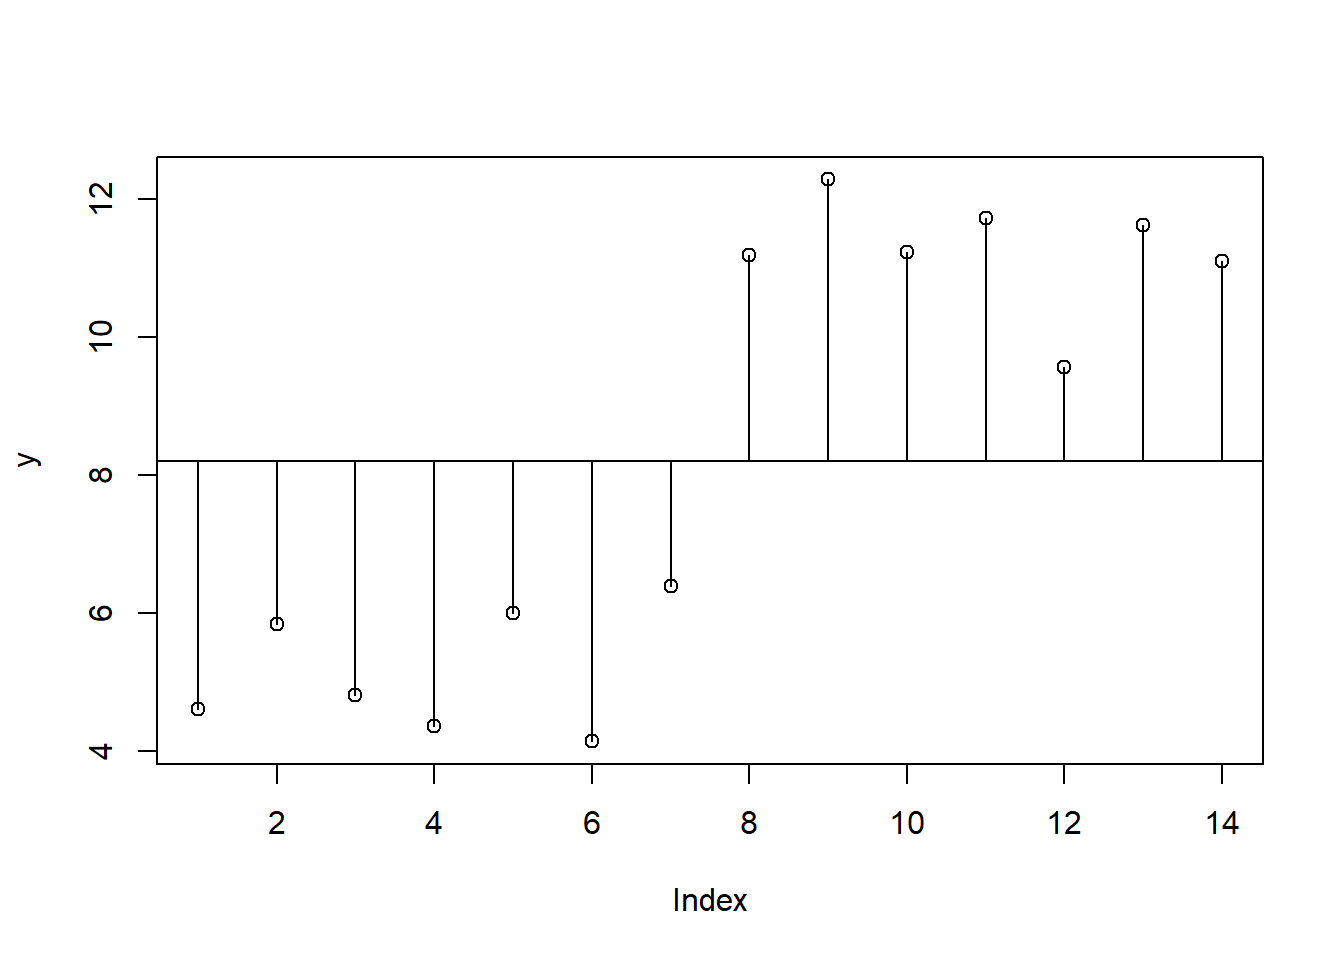
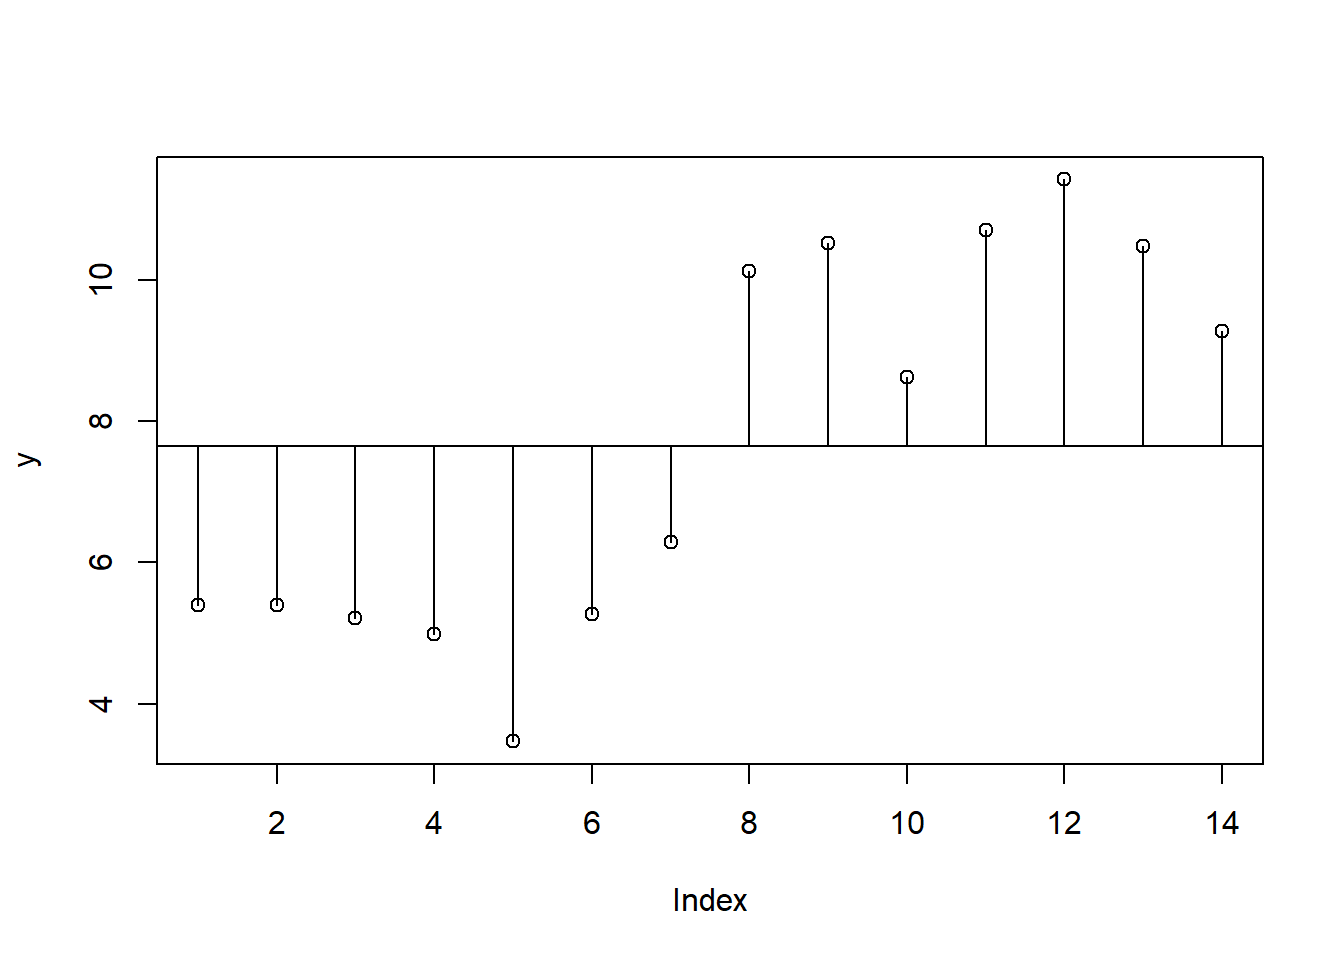
Ajustes clase de prueba de hipótesis

diff --git a/Blog/_site/posts/concepto-y-modelos-experimentar/index.html b/Blog/_site/posts/concepto-y-modelos-experimentar/index.html
@@ -387,8 +387,8 @@ Pr(detectada|Hipótesis) = \frac{Pr(Hipótesis|detectada) Pr(detectado)} {Pr(Hip
 <span id="cb8-7"><a href="#cb8-7" aria-hidden="true" tabindex="-1"></a></span>
 <span id="cb8-8"><a href="#cb8-8" aria-hidden="true" tabindex="-1"></a><span class="co"># Gráfica</span></span>
 <span id="cb8-9"><a href="#cb8-9" aria-hidden="true" tabindex="-1"></a><span class="fu">plot</span>(<span class="at">x =</span> <span class="dv">1</span> <span class="sc">-</span> resultados<span class="sc">$</span>p_error, <span class="at">y =</span> resultados<span class="sc">$</span>p_post,</span>
-<span id="cb8-10"><a href="#cb8-10" aria-hidden="true" tabindex="-1"></a>     <span class="at">type =</span> <span class="st">"b"</span>, <span class="at">xlab =</span> <span class="st">"valor de P"</span>, <span class="at">ylab =</span> <span class="st">"Pr post detección positiva"</span>, <span class="at">cex =</span> <span class="dv">2</span>, </span>
-<span id="cb8-11"><a href="#cb8-11" aria-hidden="true" tabindex="-1"></a>     <span class="at">cex.axis  =</span> <span class="dv">2</span>, <span class="at">cex.lab =</span> <span class="dv">2</span>)</span></code><button title="Copiar al portapapeles" class="code-copy-button"><i class="bi"></i></button></pre></div>
+<span id="cb8-10"><a href="#cb8-10" aria-hidden="true" tabindex="-1"></a>     <span class="at">type =</span> <span class="st">"b"</span>, <span class="at">xlab =</span> <span class="st">"valor de P"</span>, <span class="at">ylab =</span> <span class="st">"Pr post detección positiva"</span>, </span>
+<span id="cb8-11"><a href="#cb8-11" aria-hidden="true" tabindex="-1"></a>     <span class="at">cex =</span> <span class="dv">2</span>, <span class="at">cex.axis  =</span> <span class="dv">1</span>, <span class="at">cex.lab =</span> <span class="dv">2</span>)</span></code><button title="Copiar al portapapeles" class="code-copy-button"><i class="bi"></i></button></pre></div>
 </details>
 <div class="cell-output-display">
 <p><img src="index_files/figure-html/unnamed-chunk-6-1.png" class="img-fluid" width="672"></p>
@@ -412,8 +412,8 @@ Pr(detectada|Hipótesis) = \frac{Pr(Hipótesis|detectada) Pr(detectado)} {Pr(Hip
 <p>La propuesta que seguiremos en el <strong>Módulo 3</strong> se basa en traducir situaciones reales en abstracciones que escribimos como modelos estadísticos. De esta manera buscamos generar expresiones matemáticas que dan cuenta de nuestras concepciones sobre cómo funcionan aspectos concretos de la naturaleza. Es así que nos planteamos generar series de números <em>idealizados por el modelo</em> que podemos comparar con series de números observamos directamente de la naturaleza. Sí estas dos series de números se <em>parecen lo suficiente</em>, nos <em>sentiremos con confianza suficiente</em> como para pensar que nuestro modelo es útil para describir el comportamiento del segmento de la naturaleza que elegimos abstraer.</p>
 <section id="podríamos-usarlo-para-intervenir-en-él" class="level3">
 <h3 class="anchored" data-anchor-id="podríamos-usarlo-para-intervenir-en-él"><span style="color:GoldenRod"><strong>¿Podríamos usarlo para intervenir en él?</strong></span></h3>
-<p>Recordemos que el modelo completo es el que tiene todos los parámetros posibles de acuerdo con el diseño del estudio, usualmente al menos un término por cada grupo experimental (tratamiento). En general el método para llegar a un segundo modelo es introducir restricciones (supuestos que especifican el valor de particulares) sobre los parámetros del primer modelo.</p>
-<p>Las restricciones usualmente son nuestra(s) hipótesis nula(s) y en ese caso las usamos para eliminar algunos parámetros del conjunto usado en el modelo completo. Naturalmente llamamos al modelo resultante simplemente el modelo restringido.</p>
+<p>El modelo que contiene todas las variables explicativas que proponemos tinen que ver con el fenómeno que estamos analizando lo llamaremos <strong>modelo completo</strong>. Tiene todos los parámetros posibles de acuerdo con el diseño del estudio, usualmente al menos un término por cada grupo experimental (tratamiento). En general el método para llegar a un segundo modelo es postular restricciones (supuestos que especifican el valor de particulares) sobre los parámetros del primer modelo.</p>
+<p>Las restricciones usualmente son nuestra(s) hipótesis nula(s) y en ese caso las usamos para eliminar algunos parámetros del conjunto usado en el modelo completo, equivalente a dar por hecho que el parámetro correspondiente es 0. Naturalmente llamaremos al modelo resultante simplemente el <strong>modelo restringido</strong> o <strong>modelo reducido</strong>.</p>
 </section>
 <section id="piensas-que-sería-válido-restringir-un-modelo-con-valores-de-algún-parámetro-con-un-valor-que-no-sea-cero" class="level3">
 <h3 class="anchored" data-anchor-id="piensas-que-sería-válido-restringir-un-modelo-con-valores-de-algún-parámetro-con-un-valor-que-no-sea-cero"><span style="color:GoldenRod"><strong>¿Piensas que sería válido restringir un modelo con valores de algún parámetro con un valor que no sea cero?</strong></span></h3>
@@ -499,11 +499,11 @@ H_0: m_1 = m_2 = m_3 = ... = m_k
 <div class="cell">
 <details>
 <summary>Código</summary>
-<div class="sourceCode cell-code" id="cb16"><pre class="sourceCode r code-with-copy"><code class="sourceCode r"><span id="cb16-1"><a href="#cb16-1" aria-hidden="true" tabindex="-1"></a>dist_med_y <span class="ot">&lt;-</span> <span class="fu">sum</span>(<span class="fu">abs</span>(y <span class="sc">-</span> <span class="fu">mean</span>(y)))</span>
+<div class="sourceCode cell-code" id="cb16"><pre class="sourceCode r code-with-copy"><code class="sourceCode r"><span id="cb16-1"><a href="#cb16-1" aria-hidden="true" tabindex="-1"></a>dist_med_y <span class="ot">&lt;-</span> <span class="fu">sum</span>((y <span class="sc">-</span> <span class="fu">mean</span>(y))<span class="sc">**</span><span class="dv">2</span>)</span>
 <span id="cb16-2"><a href="#cb16-2" aria-hidden="true" tabindex="-1"></a>dist_med_y</span></code><button title="Copiar al portapapeles" class="code-copy-button"><i class="bi"></i></button></pre></div>
 </details>
 <div class="cell-output cell-output-stdout">
-<pre><code>[1] 42.61764</code></pre>
+<pre><code>[1] 97.63709</code></pre>
 </div>
 </div>
 <p>Ahora incorporemos la información del factor <strong><em>f</em></strong>. Para esto hay que calcular los promedios de “y” que corresponden a los niveles de <strong><em>f</em></strong></p>
@@ -515,7 +515,7 @@ H_0: m_1 = m_2 = m_3 = ... = m_k
 </details>
 <div class="cell-output cell-output-stdout">
 <pre><code>        a         b 
- 5.162983 11.251218 </code></pre>
+ 5.145941 10.162875 </code></pre>
 </div>
 </div>
 <p>Grafiquemos esta nueva estructura de datos.</p>
@@ -538,22 +538,18 @@ H_0: m_1 = m_2 = m_3 = ... = m_k
 <div class="cell">
 <details>
 <summary>Código</summary>
-<div class="sourceCode cell-code" id="cb21"><pre class="sourceCode r code-with-copy"><code class="sourceCode r"><span id="cb21-1"><a href="#cb21-1" aria-hidden="true" tabindex="-1"></a>dist_med_s <span class="ot">&lt;-</span> <span class="fu">sum</span>(<span class="at">m1=</span><span class="fu">sum</span>(<span class="fu">abs</span>(y[<span class="dv">1</span><span class="sc">:</span><span class="dv">7</span>] <span class="sc">-</span> means[<span class="dv">1</span>])), <span class="at">m2=</span><span class="fu">sum</span>(<span class="fu">abs</span>(y[<span class="dv">7</span><span class="sc">:</span><span class="dv">14</span>] <span class="sc">-</span> means[<span class="dv">2</span>])))</span>
-<span id="cb21-2"><a href="#cb21-2" aria-hidden="true" tabindex="-1"></a>dist_med_s</span></code><button title="Copiar al portapapeles" class="code-copy-button"><i class="bi"></i></button></pre></div>
+<div class="sourceCode cell-code" id="cb21"><pre class="sourceCode r code-with-copy"><code class="sourceCode r"><span id="cb21-1"><a href="#cb21-1" aria-hidden="true" tabindex="-1"></a>dist_med_s <span class="ot">&lt;-</span> <span class="fu">sum</span>(<span class="at">m1=</span><span class="fu">sum</span>((y[<span class="dv">1</span><span class="sc">:</span><span class="dv">7</span>] <span class="sc">-</span> means[<span class="dv">1</span>])<span class="sc">**</span><span class="dv">2</span>), </span>
+<span id="cb21-2"><a href="#cb21-2" aria-hidden="true" tabindex="-1"></a>                  <span class="at">m2=</span><span class="fu">sum</span>((y[<span class="dv">8</span><span class="sc">:</span><span class="dv">14</span>] <span class="sc">-</span> means[<span class="dv">2</span>])<span class="sc">**</span><span class="dv">2</span>))</span>
+<span id="cb21-3"><a href="#cb21-3" aria-hidden="true" tabindex="-1"></a></span>
+<span id="cb21-4"><a href="#cb21-4" aria-hidden="true" tabindex="-1"></a>dist_med_s</span></code><button title="Copiar al portapapeles" class="code-copy-button"><i class="bi"></i></button></pre></div>
 </details>
 <div class="cell-output cell-output-stdout">
-<pre><code>[1] 14.12018</code></pre>
+<pre><code>[1] 9.543406</code></pre>
 </div>
 </div>
 </section>
-<section id="si-las-dos-medias-fuerean-iguales-cómo-compararían-estas-dos-gráficas" class="level3">
-<h3 class="anchored" data-anchor-id="si-las-dos-medias-fuerean-iguales-cómo-compararían-estas-dos-gráficas"><span style="color:GoldenRod"><strong>Si las dos <em>medias</em> fuerean iguales ¿cómo compararían estas dos gráficas?</strong></span></h3>
-<div class="cell">
-<details>
-<summary>Código</summary>
-<div class="sourceCode cell-code" id="cb23"><pre class="sourceCode r code-with-copy"><code class="sourceCode r"><span id="cb23-1"><a href="#cb23-1" aria-hidden="true" tabindex="-1"></a>suma_trazos_vert_2 <span class="ot">&lt;-</span> means[<span class="dv">1</span>] <span class="sc">-</span> y</span></code><button title="Copiar al portapapeles" class="code-copy-button"><i class="bi"></i></button></pre></div>
-</details>
-</div>
+<section id="si-las-dos-medias-fueran-iguales-cómo-compararían-estas-dos-gráficas" class="level3">
+<h3 class="anchored" data-anchor-id="si-las-dos-medias-fueran-iguales-cómo-compararían-estas-dos-gráficas"><span style="color:GoldenRod"><strong>Si las dos <em>medias</em> fueran iguales ¿cómo compararían estas dos gráficas?</strong></span></h3>
 </section>
 <section id="qué-interpretación-tiene-la-diferencia-entre-las-dos-sumas-mencionadas-arriba" class="level3">
 <h3 class="anchored" data-anchor-id="qué-interpretación-tiene-la-diferencia-entre-las-dos-sumas-mencionadas-arriba"><span style="color:GoldenRod"><strong>¿Qué interpretación tiene la diferencia entre las dos sumas mencionadas arriba?</strong></span></h3>
@@ -561,20 +557,79 @@ H_0: m_1 = m_2 = m_3 = ... = m_k
 <div class="cell">
 <details>
 <summary>Código</summary>
-<div class="sourceCode cell-code" id="cb24"><pre class="sourceCode r code-with-copy"><code class="sourceCode r"><span id="cb24-1"><a href="#cb24-1" aria-hidden="true" tabindex="-1"></a>modelo <span class="ot">&lt;-</span> <span class="fu">lm</span>(y <span class="sc">~</span> f) <span class="co"># ¿qué estoy haciendo aquí?</span></span>
-<span id="cb24-2"><a href="#cb24-2" aria-hidden="true" tabindex="-1"></a><span class="fu">plot</span> (y, <span class="at">col =</span> <span class="st">"red"</span>)</span>
-<span id="cb24-3"><a href="#cb24-3" aria-hidden="true" tabindex="-1"></a><span class="fu">abline</span> (<span class="fu">mean</span>(y), <span class="dv">0</span>)</span>
-<span id="cb24-4"><a href="#cb24-4" aria-hidden="true" tabindex="-1"></a><span class="fu">points</span>(<span class="fu">predict</span>(modelo), <span class="at">pch =</span> <span class="dv">16</span>, <span class="at">col =</span> <span class="st">"lightblue"</span>)</span>
-<span id="cb24-5"><a href="#cb24-5" aria-hidden="true" tabindex="-1"></a><span class="cf">for</span> (i <span class="cf">in</span> <span class="dv">1</span><span class="sc">:</span><span class="dv">14</span>) <span class="fu">lines</span>(<span class="fu">c</span>(i, i), <span class="fu">c</span>(<span class="fu">mean</span>(y), <span class="fu">predict</span>(modelo)[i]), <span class="at">col =</span> <span class="st">"gray"</span>)</span></code><button title="Copiar al portapapeles" class="code-copy-button"><i class="bi"></i></button></pre></div>
+<div class="sourceCode cell-code" id="cb23"><pre class="sourceCode r code-with-copy"><code class="sourceCode r"><span id="cb23-1"><a href="#cb23-1" aria-hidden="true" tabindex="-1"></a>modelo <span class="ot">&lt;-</span> <span class="fu">lm</span>(y <span class="sc">~</span> f) <span class="co"># ¿qué estoy haciendo aquí?</span></span>
+<span id="cb23-2"><a href="#cb23-2" aria-hidden="true" tabindex="-1"></a><span class="fu">plot</span> (y, <span class="at">col =</span> <span class="st">"red"</span>)</span>
+<span id="cb23-3"><a href="#cb23-3" aria-hidden="true" tabindex="-1"></a><span class="fu">abline</span> (<span class="fu">mean</span>(y), <span class="dv">0</span>)</span>
+<span id="cb23-4"><a href="#cb23-4" aria-hidden="true" tabindex="-1"></a><span class="fu">points</span>(<span class="fu">predict</span>(modelo), <span class="at">pch =</span> <span class="dv">16</span>, <span class="at">col =</span> <span class="st">"lightblue"</span>)</span>
+<span id="cb23-5"><a href="#cb23-5" aria-hidden="true" tabindex="-1"></a><span class="cf">for</span> (i <span class="cf">in</span> <span class="dv">1</span><span class="sc">:</span><span class="dv">14</span>) <span class="fu">lines</span>(<span class="fu">c</span>(i, i), <span class="fu">c</span>(<span class="fu">mean</span>(y), <span class="fu">predict</span>(modelo)[i]), <span class="at">col =</span> <span class="st">"gray"</span>)</span></code><button title="Copiar al portapapeles" class="code-copy-button"><i class="bi"></i></button></pre></div>
 </details>
 <div class="cell-output-display">
-<p><img src="index_files/figure-html/unnamed-chunk-16-1.png" class="img-fluid" width="672"></p>
+<p><img src="index_files/figure-html/unnamed-chunk-15-1.png" class="img-fluid" width="672"></p>
+</div>
+</div>
+<p>Ahora la suma de estas líneas verticales es</p>
+<div class="cell">
+<details>
+<summary>Código</summary>
+<div class="sourceCode cell-code" id="cb24"><pre class="sourceCode r code-with-copy"><code class="sourceCode r"><span id="cb24-1"><a href="#cb24-1" aria-hidden="true" tabindex="-1"></a>dist_med_s_y <span class="ot">&lt;-</span> <span class="fu">sum</span>(<span class="fu">sum</span>((<span class="fu">rep</span>(means[<span class="dv">1</span>], <span class="dv">7</span>) <span class="sc">-</span> <span class="fu">mean</span>(anova.data<span class="sc">$</span>y))<span class="sc">**</span><span class="dv">2</span>),  </span>
+<span id="cb24-2"><a href="#cb24-2" aria-hidden="true" tabindex="-1"></a>                    <span class="fu">sum</span>((<span class="fu">rep</span>(means[<span class="dv">2</span>], <span class="dv">7</span>) <span class="sc">-</span> <span class="fu">mean</span>(anova.data<span class="sc">$</span>y))<span class="sc">**</span><span class="dv">2</span>))</span>
+<span id="cb24-3"><a href="#cb24-3" aria-hidden="true" tabindex="-1"></a>dist_med_s_y</span></code><button title="Copiar al portapapeles" class="code-copy-button"><i class="bi"></i></button></pre></div>
+</details>
+<div class="cell-output cell-output-stdout">
+<pre><code>[1] 88.09368</code></pre>
+</div>
+</div>
+<p>Estas tres formas de calcular las distancias entre datos y promedios se asocia con <em>fuentes de variación</em></p>
+<ol type="1">
+<li>variaciones o error total</li>
+<li>variaciones o error residual (componente aleatorio/efecto aleatorio)</li>
+<li>variaciones o error del modelo (componente sistemático/efecto fijo)</li>
+</ol>
+<p>En el cuadro de análisis de varianza se suele etiquetar a los componentes de error de acuerdo con su <em>fuente</em>. Se les acompaña con los grados de libertad, la <em>suma de cuadrados</em> de las distancias que mostré en las tres gráficas anteriores y luego los llamados <em>cuadrados medios</em>. Para referencia podemos pedrle a <strong>R</strong> que nos reporte el cuadro de ANOVA de este modelo.</p>
+</section>
+<section id="analiza-la-correspondencia-entre-los-valores-y-las-gráficas-que-vimos-arriba-con-lo-que-reporta-r." class="level3">
+<h3 class="anchored" data-anchor-id="analiza-la-correspondencia-entre-los-valores-y-las-gráficas-que-vimos-arriba-con-lo-que-reporta-r."><span style="color:GoldenRod">Analiza la correspondencia entre los valores y las gráficas que vimos arriba con lo que reporta <strong>R</strong>.</span></h3>
+<div class="cell">
+<details>
+<summary>Código</summary>
+<div class="sourceCode cell-code" id="cb26"><pre class="sourceCode r code-with-copy"><code class="sourceCode r"><span id="cb26-1"><a href="#cb26-1" aria-hidden="true" tabindex="-1"></a><span class="fu">anova</span>(modelo)</span></code><button title="Copiar al portapapeles" class="code-copy-button"><i class="bi"></i></button></pre></div>
+</details>
+<div class="cell-output cell-output-stdout">
+<pre><code>Analysis of Variance Table
+
+Response: y
+          Df Sum Sq Mean Sq F value    Pr(&gt;F)    
+f          1 88.094  88.094  110.77 2.055e-07 ***
+Residuals 12  9.543   0.795                      
+---
+Signif. codes:  0 '***' 0.001 '**' 0.01 '*' 0.05 '.' 0.1 ' ' 1</code></pre>
+</div>
+<details>
+<summary>Código</summary>
+<div class="sourceCode cell-code" id="cb28"><pre class="sourceCode r code-with-copy"><code class="sourceCode r"><span id="cb28-1"><a href="#cb28-1" aria-hidden="true" tabindex="-1"></a>dist_med_y</span></code><button title="Copiar al portapapeles" class="code-copy-button"><i class="bi"></i></button></pre></div>
+</details>
+<div class="cell-output cell-output-stdout">
+<pre><code>[1] 97.63709</code></pre>
+</div>
+<details>
+<summary>Código</summary>
+<div class="sourceCode cell-code" id="cb30"><pre class="sourceCode r code-with-copy"><code class="sourceCode r"><span id="cb30-1"><a href="#cb30-1" aria-hidden="true" tabindex="-1"></a>dist_med_s</span></code><button title="Copiar al portapapeles" class="code-copy-button"><i class="bi"></i></button></pre></div>
+</details>
+<div class="cell-output cell-output-stdout">
+<pre><code>[1] 9.543406</code></pre>
+</div>
+<details>
+<summary>Código</summary>
+<div class="sourceCode cell-code" id="cb32"><pre class="sourceCode r code-with-copy"><code class="sourceCode r"><span id="cb32-1"><a href="#cb32-1" aria-hidden="true" tabindex="-1"></a>dist_med_s_y </span></code><button title="Copiar al portapapeles" class="code-copy-button"><i class="bi"></i></button></pre></div>
+</details>
+<div class="cell-output cell-output-stdout">
+<pre><code>[1] 88.09368</code></pre>
 </div>
 </div>
 <div class="cell">
 <details>
 <summary>Código</summary>
-<div class="sourceCode cell-code" id="cb25"><pre class="sourceCode r code-with-copy"><code class="sourceCode r"><span id="cb25-1"><a href="#cb25-1" aria-hidden="true" tabindex="-1"></a><span class="fu">detach</span>(anova.data)</span></code><button title="Copiar al portapapeles" class="code-copy-button"><i class="bi"></i></button></pre></div>
+<div class="sourceCode cell-code" id="cb34"><pre class="sourceCode r code-with-copy"><code class="sourceCode r"><span id="cb34-1"><a href="#cb34-1" aria-hidden="true" tabindex="-1"></a><span class="fu">detach</span>(anova.data)</span></code><button title="Copiar al portapapeles" class="code-copy-button"><i class="bi"></i></button></pre></div>
 </details>
 </div>
 </section>

diff --git a/Blog/_site/index.html b/Blog/_site/index.html
@@ -162,7 +162,7 @@ ul.task-list li input[type="checkbox"] {
 
 <div class="quarto-listing quarto-listing-container-default" id="listing-listing">
 <div class="list quarto-listing-default">
-<div class="quarto-post image-right" data-index="0" data-categories="clase" data-listing-date-sort="1674799200000" data-listing-file-modified-sort="1674862749845" data-listing-reading-time-sort="26.14">
+<div class="quarto-post image-right" data-index="0" data-categories="clase" data-listing-date-sort="1674799200000" data-listing-file-modified-sort="1674881610314" data-listing-reading-time-sort="27.135">
 <div class="thumbnail">
 <p><a href="./posts/concepto-y-modelos-experimentar/index.html"> <img src="./posts/concepto-y-modelos-experimentar/images/vampiro-dracula.png" class="thumnail-image"> </a></p>
 </div>
@@ -197,7 +197,7 @@ Miguel Equihua, Alan Aguirre
 </a>
 </div>
 </div>
-<div class="quarto-post image-right" data-index="1" data-categories="clase" data-listing-date-sort="1674799200000" data-listing-file-modified-sort="1674801323225" data-listing-reading-time-sort="0.635">
+<div class="quarto-post image-right" data-index="1" data-categories="clase" data-listing-date-sort="1674799200000" data-listing-file-modified-sort="1674880784437" data-listing-reading-time-sort="0.635">
 <div class="thumbnail">
 <p><a href="./posts/diagramas-causales/index.html"> <img src="./posts/diagramas-causales/images/autores_y_The_Book_of_Why.jpg" class="thumnail-image"> </a></p>
 </div>
@@ -232,7 +232,7 @@ Miguel Equihua, Alan Aguirre
 </a>
 </div>
 </div>
-<div class="quarto-post image-right" data-index="2" data-categories="clase" data-listing-date-sort="1674712800000" data-listing-file-modified-sort="1674803781718" data-listing-reading-time-sort="1.145">
+<div class="quarto-post image-right" data-index="2" data-categories="clase" data-listing-date-sort="1674712800000" data-listing-file-modified-sort="1674880784457" data-listing-reading-time-sort="1.145">
 <div class="thumbnail">
 <p><a href="./posts/leyes-de-la-ciencia/index.html"> <img src="./posts/leyes-de-la-ciencia/abstract-95721_1920.jpg" class="thumnail-image"> </a></p>
 </div>
@@ -267,7 +267,7 @@ Miguel Equihua, Alan Aguirre
 </a>
 </div>
 </div>
-<div class="quarto-post image-right" data-index="3" data-categories="anuncios" data-listing-date-sort="1674626400000" data-listing-file-modified-sort="1674794646735" data-listing-reading-time-sort="3.16">
+<div class="quarto-post image-right" data-index="3" data-categories="anuncios" data-listing-date-sort="1674626400000" data-listing-file-modified-sort="1674880784378" data-listing-reading-time-sort="3.16">
 <div class="thumbnail">
 <p><a href="./posts/bienvenida/index.html"> <img src="./posts/bienvenida/earth-977411_1920.jpg" class="thumnail-image"> </a></p>
 </div>
@@ -302,7 +302,7 @@ Miguel Equihua, Alan Aguirre
 </a>
 </div>
 </div>
-<div class="quarto-post image-right" data-index="4" data-categories="anuncios" data-listing-date-sort="1674626400000" data-listing-file-modified-sort="1674794647233" data-listing-reading-time-sort="0.25">
+<div class="quarto-post image-right" data-index="4" data-categories="anuncios" data-listing-date-sort="1674626400000" data-listing-file-modified-sort="1674880784439" data-listing-reading-time-sort="0.25">
 <div class="thumbnail">
 <p><a href="./posts/evaluacion/index.html"> <img src="./posts/evaluacion/virtual-5663279_1280.png" class="thumnail-image"> </a></p>
 </div>
